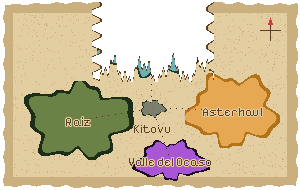
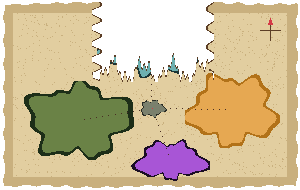
Diario: el mapa del mundo ampliado y con los nombres en etiquetas de pergamino que se leen (y una hojita dorada en Raíz cuando es libre)

diff --git a/herramientas/dibujar_kitovu.py b/herramientas/dibujar_kitovu.py
@@ -911,8 +911,9 @@ def iconos():
 
 # --- El mapa del mundo, roto ------------------------------------------------------------
 
-def mapa_mundo():
-    """Pergamino con los mundos alrededor del Kitovu. El trozo de Sigilia está arrancado."""
+def mapa_mundo(rotulos=False):
+    """Pergamino con los mundos alrededor del Kitovu. El trozo de Sigilia está arrancado.
+    Sin rótulos: el diario (mochila.gd) escribe los nombres aparte, en etiquetas que se leen bien con el mapa ampliado."""
     W, H = 300, 190
     img = Image.new("RGBA", (W, H), (0, 0, 0, 0))
     px = img.load()
@@ -964,7 +965,7 @@ def mapa_mundo():
     # rótulos
     fuente = ImageFont.truetype(os.path.join(RAIZ, "fuentes", "pixelify_sans.woff"), 12)
     d.fontmode = "1"
-    for (x, y, rx, ry, col, bor, nombre) in mundos + [(centro[0], centro[1] + 14, 0, 0, "", "", "Kitovu")]:
+    for (x, y, rx, ry, col, bor, nombre) in (mundos + [(centro[0], centro[1] + 14, 0, 0, "", "", "Kitovu")] if rotulos else []):
         w = d.textlength(nombre, font=fuente)
         pos = (x - w / 2, y - 6 if nombre != "Kitovu" else y - 1)
         d.text(pos, nombre, font=fuente, fill=c("Pergamino 1"), stroke_width=1, stroke_fill=c("Pergamino 3"))

diff --git a/LEEME.md b/LEEME.md
@@ -139,7 +139,7 @@ Como en otros juegos, el Kitovu enseña las acciones parando el mundo (`scripts/
 
 El diario tiene estilo **noche mágica** (`herramientas/pintar_interfaz.py`): tapas de cuero azul noche cosidas con hilo de oro y cantoneras doradas, páginas de cielo nocturno (nebulosa suave, estrellas, constelaciones) con borde de filigrana dorada, y la tapa con el Gran Árbol, la luna y estrellas en oro. Las letras de las páginas usan su propia paleta clara (`TN_*` en `mochila.gd`): títulos en oro, texto en crema, la historia en coral y lo cumplido en gris azulado; la fila elegida, en tinta oscura sobre la banda dorada. El mapa sigue siendo de pergamino.
 
-**A pantalla completa, como la bolsa de Pokémon Platino** (`documentacion/diario_bolsa.png`): a la izquierda, la **mochila grande** de Maisha con el nombre del bolsillo encima y los **6 bolsillos** debajo (← → para cambiar; la mochila da un saltito, el bolsillo elegido brilla y asoma lo que guarda: un rollo con sello, el cetro, un brote, un mapa, un colgante o una pluma de búho); a la derecha, la **lista grande** (letra de 18, 7 filas); abajo, a lo ancho, la **descripción** con el dibujo grande (en las misiones, de qué va a la izquierda y los pasos y la recompensa a la derecha). El Mapa y las Habilidades ocupan la pantalla entera, con los bolsillos pequeños arriba. Arte: `bolsa_fondo.png` (cielo de noche con tres marcos de filigrana; los mismos rectángulos que `BOLSA`, `LISTA` y `DESC` en `mochila.gd`), `bolsa_fondo_pleno.png` y `mochila.png` (5 dibujos de 160×160), en `pintar_interfaz.py`. Las letras claras llevan contorno oscuro (`draw_string_outline` en `_texto`). En el **mapa de Raíz**, el dibujo se ve ampliado (`MAPA_ESCALA`, 1,32) y cada nombre de lugar va en una etiqueta de pergamino con tinta oscura, escrita aparte y nítida (no se amplía); los contadores de secretos y el alfiler, igual. Ninguna letra del diario baja de 15 (`documentacion/diario_legible.png`).
+**A pantalla completa, como la bolsa de Pokémon Platino** (`documentacion/diario_bolsa.png`): a la izquierda, la **mochila grande** de Maisha con el nombre del bolsillo encima y los **6 bolsillos** debajo (← → para cambiar; la mochila da un saltito, el bolsillo elegido brilla y asoma lo que guarda: un rollo con sello, el cetro, un brote, un mapa, un colgante o una pluma de búho); a la derecha, la **lista grande** (letra de 18, 7 filas); abajo, a lo ancho, la **descripción** con el dibujo grande (en las misiones, de qué va a la izquierda y los pasos y la recompensa a la derecha). El Mapa y las Habilidades ocupan la pantalla entera, con los bolsillos pequeños arriba. Arte: `bolsa_fondo.png` (cielo de noche con tres marcos de filigrana; los mismos rectángulos que `BOLSA`, `LISTA` y `DESC` en `mochila.gd`), `bolsa_fondo_pleno.png` y `mochila.png` (5 dibujos de 160×160), en `pintar_interfaz.py`. Las letras claras llevan contorno oscuro (`draw_string_outline` en `_texto`). En el **mapa de Raíz**, el dibujo se ve ampliado (`MAPA_ESCALA`, 1,32) y cada nombre de lugar va en una etiqueta de pergamino con tinta oscura, escrita aparte y nítida (no se amplía); los contadores de secretos y el alfiler, igual. Ninguna letra del diario baja de 15 (`documentacion/diario_legible.png`). El **mapa del mundo** (↑ ↓ desde el de Raíz), igual: ampliado (`MAPA_MUNDO_ESCALA`, 1,6) y con los nombres en etiquetas de pergamino (`LUGARES_MUNDO`; el dibujo, `mapa_mundo()` de `dibujar_kitovu.py`, ya no lleva rótulos); cuando Raíz es libre, una hojita dorada junto a su nombre (`documentacion/diario_mapa_mundo.png`).
 
 **El árbol de habilidades** (pestaña Habilidades del diario): un árbol dorado que crece del lomo del libro
 (`arbol_ramas.png` y `nodos.png`, en `pintar_interfaz.py`) con tres ramas: **Raíz** (Semilla, K) a la izquierda,
